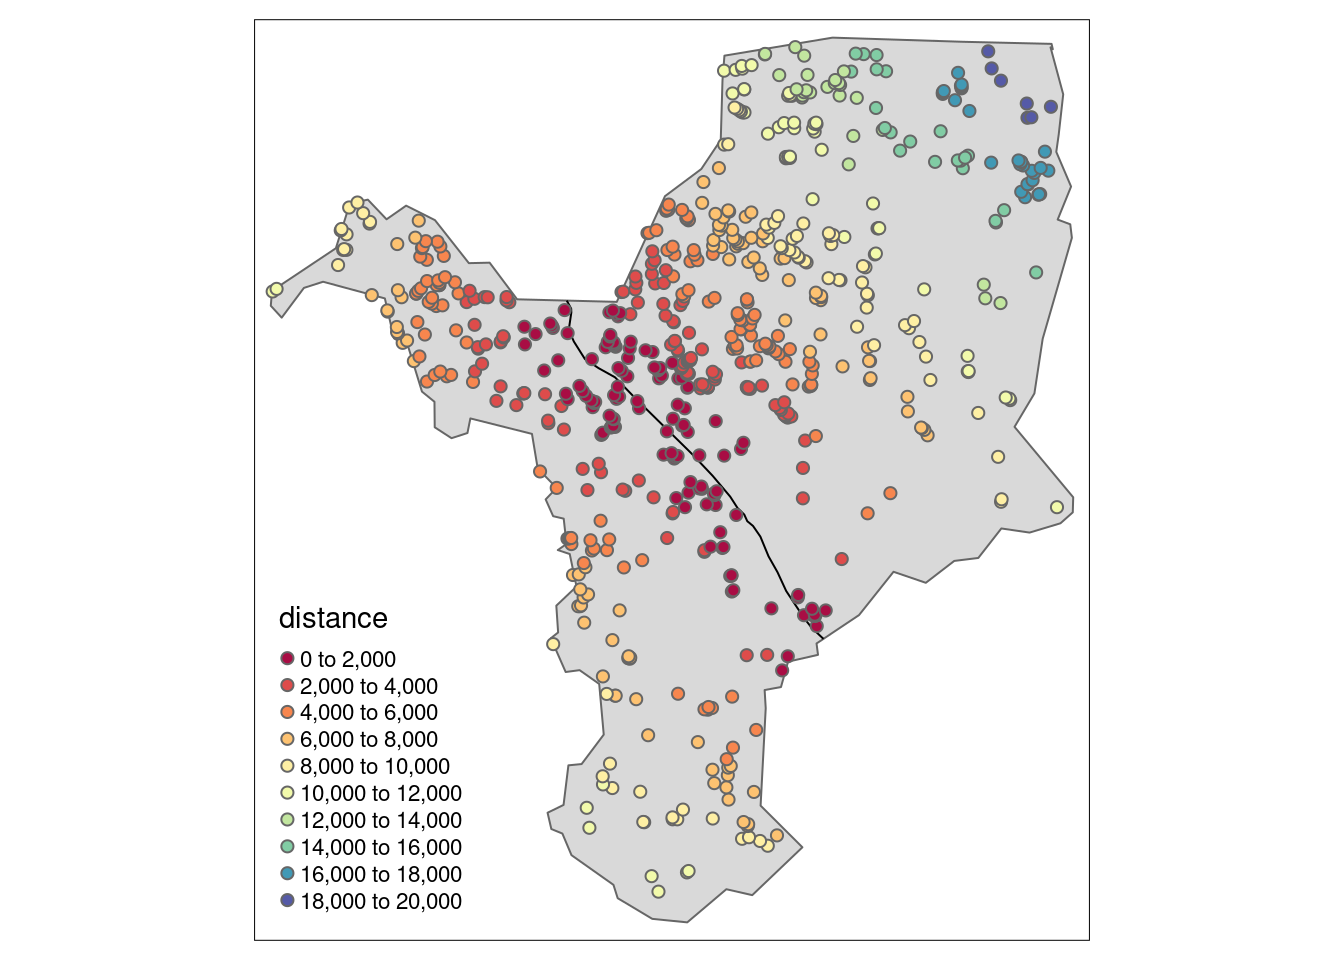
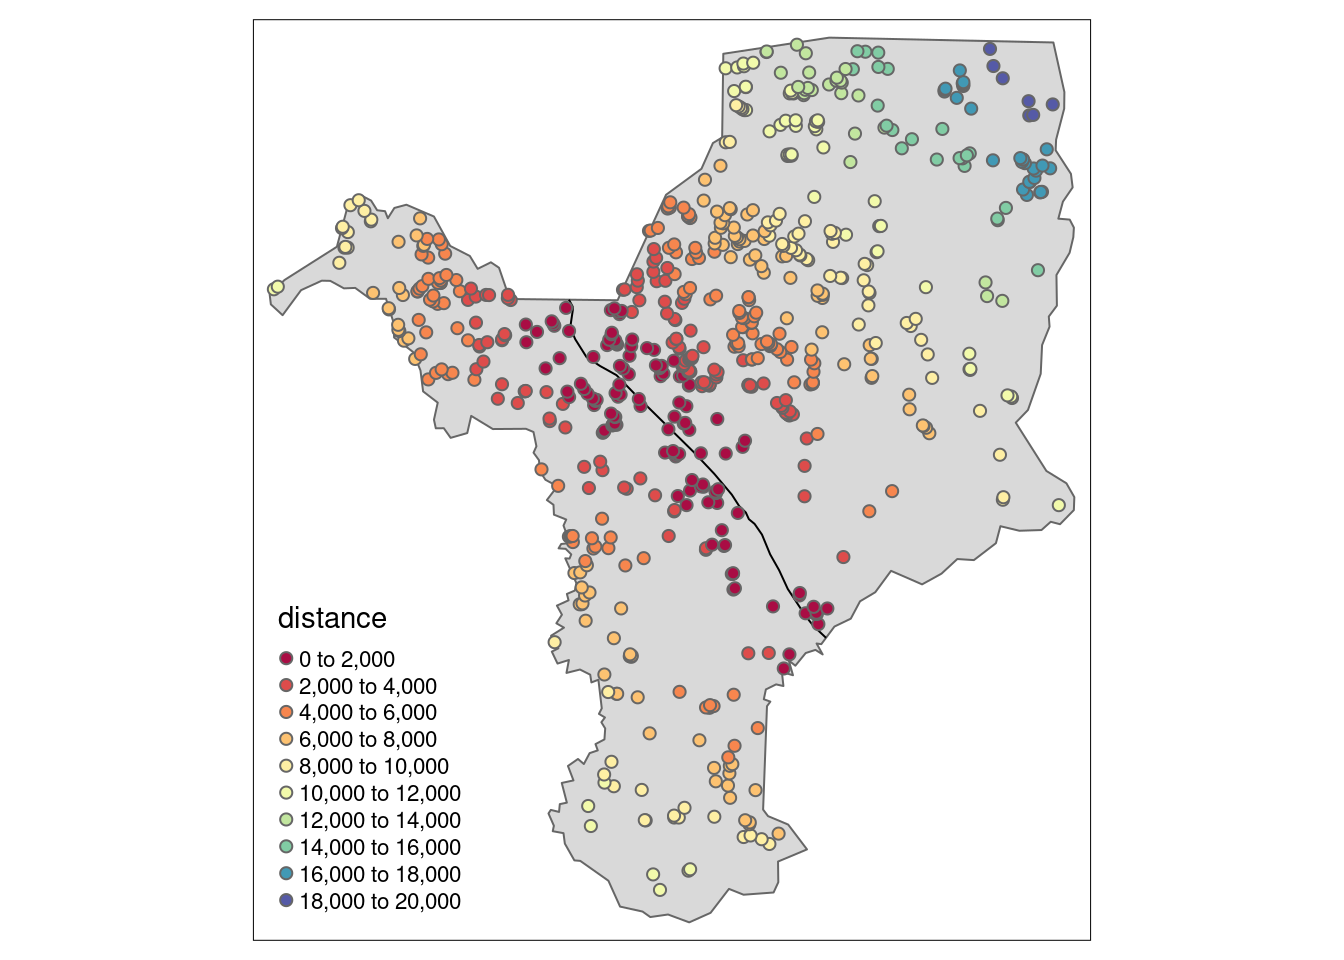
update pontos linhas

diff --git a/blog/geoanalise-distancia-ponto-linha/index.html b/blog/geoanalise-distancia-ponto-linha/index.html
@@ -46,7 +46,7 @@
   <meta itemprop="name" content="Distância de pontos a linhas">
 <meta itemprop="description" content="Cálculo da distância de pontos a linhas no R e no QGIS"><meta itemprop="datePublished" content="2022-07-10T00:00:00+00:00" />
 <meta itemprop="dateModified" content="2022-07-10T00:00:00+00:00" />
-<meta itemprop="wordCount" content="2005"><meta itemprop="image" content="https://mauriciovancine.github.io/blog/geoanalise-distancia-ponto-linha/featured.jpg">
+<meta itemprop="wordCount" content="1908"><meta itemprop="image" content="https://mauriciovancine.github.io/blog/geoanalise-distancia-ponto-linha/featured.jpg">
 <meta itemprop="keywords" content="Geoprocessamento,Geoespacial,R,Distância," />
   
   
@@ -195,7 +195,6 @@
 </span></span><span style="display:flex;"><span>
 </span></span><span style="display:flex;"><span><span style="color:#586e75"># apagar</span>
 </span></span><span style="display:flex;"><span><span style="color:#268bd2">unlink</span>(x <span style="color:#719e07">=</span> <span style="color:#268bd2">paste0</span>(path, <span style="color:#2aa198">&#34;rodovia.zip&#34;</span>))
-</span></span><span style="display:flex;"><span><span style="color:#268bd2">unlink</span>(x <span style="color:#719e07">=</span> <span style="color:#268bd2">paste0</span>(path, <span style="color:#2aa198">&#34;SNV_202206A&#34;</span>, <span style="color:#268bd2">c</span>(<span style="color:#2aa198">&#34;.cpg&#34;</span>, <span style="color:#2aa198">&#34;.sbn&#34;</span>, <span style="color:#2aa198">&#34;.sbx&#34;</span>)))
 </span></span></code></pre></div>
 
 
@@ -208,10 +207,8 @@
 </h2>
 <p>Vamos primeiramente importar dados do limite de Rio Claro/SP e reprojetar para o sistema geográfico com Datum SIRGAS2000.</p>
 <div class="highlight"><pre tabindex="0" style="color:#93a1a1;background-color:#002b36;-moz-tab-size:4;-o-tab-size:4;tab-size:4;"><code class="language-r" data-lang="r"><span style="display:flex;"><span><span style="color:#586e75"># download de dados para o limite de Rio Claro/SP</span>
-</span></span><span style="display:flex;"><span>rio_claro <span style="color:#719e07">&lt;-</span> geodata<span style="color:#719e07">::</span><span style="color:#268bd2">gadm</span>(country <span style="color:#719e07">=</span> <span style="color:#2aa198">&#34;BRA&#34;</span>, level <span style="color:#719e07">=</span> <span style="color:#2aa198">2</span>, path <span style="color:#719e07">=</span> path) <span style="color:#719e07">|&gt;</span> 
-</span></span><span style="display:flex;"><span>    sf<span style="color:#719e07">::</span><span style="color:#268bd2">st_as_sf</span>() <span style="color:#719e07">|&gt;</span> 
+</span></span><span style="display:flex;"><span>rio_claro <span style="color:#719e07">&lt;-</span> geobr<span style="color:#719e07">::</span><span style="color:#268bd2">read_municipality</span>(code_muni <span style="color:#719e07">=</span> <span style="color:#2aa198">3543907</span>, year <span style="color:#719e07">=</span> <span style="color:#2aa198">2020</span>, showProgress <span style="color:#719e07">=</span> <span style="color:#cb4b16">FALSE</span>) <span style="color:#719e07">|&gt;</span> 
 </span></span><span style="display:flex;"><span>    sf<span style="color:#719e07">::</span><span style="color:#268bd2">st_transform</span>(crs <span style="color:#719e07">=</span> <span style="color:#2aa198">4674</span>) <span style="color:#719e07">|&gt;</span> 
-</span></span><span style="display:flex;"><span>    dplyr<span style="color:#719e07">::</span><span style="color:#268bd2">filter</span>(NAME_1 <span style="color:#719e07">==</span> <span style="color:#2aa198">&#34;São Paulo&#34;</span>, NAME_2 <span style="color:#719e07">==</span> <span style="color:#2aa198">&#34;Rio Claro&#34;</span>) <span style="color:#719e07">|&gt;</span> 
 </span></span><span style="display:flex;"><span>    dplyr<span style="color:#719e07">::</span><span style="color:#268bd2">mutate</span>(id <span style="color:#719e07">=</span> <span style="color:#2aa198">1</span>) <span style="color:#719e07">|&gt;</span> 
 </span></span><span style="display:flex;"><span>    dplyr<span style="color:#719e07">::</span><span style="color:#268bd2">select</span>(id)
 </span></span><span style="display:flex;"><span>
@@ -284,12 +281,12 @@
 </span></span><span style="display:flex;"><span>    <span style="color:#268bd2">as.data.frame</span>()
 </span></span><span style="display:flex;"><span><span style="color:#268bd2">head</span>(dist)
 </span></span></code></pre></div><pre tabindex="0"><code>##    distance       lon       lat ID
-## 1 11676.523 -47.55583 -22.45255  1
-## 2 11335.350 -47.55583 -22.45255  1
-## 3 10462.207 -47.55583 -22.45255  1
-## 4 10383.628 -47.55583 -22.45255  1
-## 5  8278.059 -47.55583 -22.45255  1
-## 6  8185.671 -47.55583 -22.45255  1
+## 1 11668.100 -47.55548 -22.45285  1
+## 2 11329.337 -47.55548 -22.45285  1
+## 3 10451.366 -47.55548 -22.45285  1
+## 4 10372.662 -47.55548 -22.45285  1
+## 5  8254.727 -47.55548 -22.45285  1
+## 6  8164.196 -47.55548 -22.45285  1
 </code></pre><p>O resultado é uma tabela que contém quatro colunas:</p>
 <ul>
 <li><strong>distance</strong>: distância em metros do centroide do lago/lagoa até a rodovia</li>
@@ -365,27 +362,14 @@
 <p>Para garantir esse efeito, podemos usar uma linha que conecte os extremos da rodovia e rodar novamente a análise.</p>
 <div class="highlight"><pre tabindex="0" style="color:#93a1a1;background-color:#002b36;-moz-tab-size:4;-o-tab-size:4;tab-size:4;"><code class="language-r" data-lang="r"><span style="display:flex;"><span><span style="color:#586e75"># pontos extremos da rodovia</span>
 </span></span><span style="display:flex;"><span>rodovia_pontos <span style="color:#719e07">&lt;-</span> sf<span style="color:#719e07">::</span><span style="color:#268bd2">st_cast</span>(rodovia, <span style="color:#2aa198">&#34;POINT&#34;</span>)<span style="color:#268bd2">[c</span>(<span style="color:#2aa198">1</span>, <span style="color:#2aa198">29</span>), ] 
-</span></span><span style="display:flex;"><span>rodovia_pontos
-</span></span></code></pre></div><pre tabindex="0"><code>## Simple feature collection with 2 features and 1 field
-## Geometry type: POINT
-## Dimension:     XY
-## Bounding box:  xmin: -47.65266 ymin: -22.45255 xmax: -47.55583 ymax: -22.33456
-## Geodetic CRS:  SIRGAS 2000
-##      id                           x
-## 1     1 POINT (-47.55583 -22.45255)
-## 1.28  1 POINT (-47.65266 -22.33456)
-</code></pre><div class="highlight"><pre tabindex="0" style="color:#93a1a1;background-color:#002b36;-moz-tab-size:4;-o-tab-size:4;tab-size:4;"><code class="language-r" data-lang="r"><span style="display:flex;"><span><span style="color:#586e75"># linha que conecta os pontos extremos da rodovia</span>
+</span></span><span style="display:flex;"><span>
+</span></span><span style="display:flex;"><span><span style="color:#586e75"># linha que conecta os pontos extremos da rodovia</span>
 </span></span><span style="display:flex;"><span>rodovia_linha <span style="color:#719e07">&lt;-</span> rodovia_pontos <span style="color:#719e07">|&gt;</span> 
 </span></span><span style="display:flex;"><span>    dplyr<span style="color:#719e07">::</span><span style="color:#268bd2">group_by</span>(id) <span style="color:#719e07">|&gt;</span>
 </span></span><span style="display:flex;"><span>    sf<span style="color:#719e07">::</span><span style="color:#268bd2">st_union</span>() <span style="color:#719e07">|&gt;</span> 
 </span></span><span style="display:flex;"><span>    sf<span style="color:#719e07">::</span><span style="color:#268bd2">st_cast</span>(<span style="color:#2aa198">&#34;LINESTRING&#34;</span>)
-</span></span><span style="display:flex;"><span>rodovia_linha
-</span></span></code></pre></div><pre tabindex="0"><code>## Geometry set for 1 feature 
-## Geometry type: LINESTRING
-## Dimension:     XY
-## Bounding box:  xmin: -47.65266 ymin: -22.45255 xmax: -47.55583 ymax: -22.33456
-## Geodetic CRS:  SIRGAS 2000
-</code></pre><div class="highlight"><pre tabindex="0" style="color:#93a1a1;background-color:#002b36;-moz-tab-size:4;-o-tab-size:4;tab-size:4;"><code class="language-r" data-lang="r"><span style="display:flex;"><span><span style="color:#586e75"># mapa</span>
+</span></span><span style="display:flex;"><span>
+</span></span><span style="display:flex;"><span><span style="color:#586e75"># mapa</span>
 </span></span><span style="display:flex;"><span><span style="color:#268bd2">tm_shape</span>(rio_claro) <span style="color:#719e07">+</span>
 </span></span><span style="display:flex;"><span>    <span style="color:#268bd2">tm_polygons</span>() <span style="color:#719e07">+</span>
 </span></span><span style="display:flex;"><span>    <span style="color:#268bd2">tm_shape</span>(rodovia) <span style="color:#719e07">+</span>
@@ -395,18 +379,18 @@
 </span></span><span style="display:flex;"><span>    <span style="color:#268bd2">tm_shape</span>(rodovia_linha) <span style="color:#719e07">+</span>
 </span></span><span style="display:flex;"><span>    <span style="color:#268bd2">tm_lines</span>(col <span style="color:#719e07">=</span> <span style="color:#2aa198">&#34;blue&#34;</span>)
 </span></span></code></pre></div><img src="https://mauriciovancine.github.io/blog/geoanalise-distancia-ponto-linha/index_files/figure-html/unnamed-chunk-14-1.png" width="672" />
-Vamos recalcular as distâncias.
+<p>Vamos recalcular as distâncias.</p>
 <div class="highlight"><pre tabindex="0" style="color:#93a1a1;background-color:#002b36;-moz-tab-size:4;-o-tab-size:4;tab-size:4;"><code class="language-r" data-lang="r"><span style="display:flex;"><span><span style="color:#586e75"># distancias</span>
 </span></span><span style="display:flex;"><span>dist_per <span style="color:#719e07">&lt;-</span> geosphere<span style="color:#719e07">::</span><span style="color:#268bd2">dist2Line</span>(lagos_centroides_sp, sf<span style="color:#719e07">::</span><span style="color:#268bd2">as_Spatial</span>(rodovia_linha)) <span style="color:#719e07">|&gt;</span> 
 </span></span><span style="display:flex;"><span>    <span style="color:#268bd2">as.data.frame</span>()
 </span></span><span style="display:flex;"><span><span style="color:#268bd2">head</span>(dist_per)
 </span></span></code></pre></div><pre tabindex="0"><code>##    distance       lon       lat ID
-## 1 11676.523 -47.55583 -22.45255  1
-## 2 11335.350 -47.55583 -22.45255  1
-## 3 10462.207 -47.55583 -22.45255  1
-## 4 10383.628 -47.55583 -22.45255  1
-## 5  8278.059 -47.55583 -22.45255  1
-## 6  8185.671 -47.55583 -22.45255  1
+## 1 11668.100 -47.55548 -22.45285  1
+## 2 11329.337 -47.55548 -22.45285  1
+## 3 10451.366 -47.55548 -22.45285  1
+## 4 10372.662 -47.55548 -22.45285  1
+## 5  8254.727 -47.55548 -22.45285  1
+## 6  8164.196 -47.55548 -22.45285  1
 </code></pre><div class="highlight"><pre tabindex="0" style="color:#93a1a1;background-color:#002b36;-moz-tab-size:4;-o-tab-size:4;tab-size:4;"><code class="language-r" data-lang="r"><span style="display:flex;"><span><span style="color:#586e75"># vetores</span>
 </span></span><span style="display:flex;"><span>lagos_centroides_pontos_total_per <span style="color:#719e07">&lt;-</span> <span style="color:#cb4b16">NULL</span>
 </span></span><span style="display:flex;"><span>lagos_centroides_linhas_total_per <span style="color:#719e07">&lt;-</span> <span style="color:#cb4b16">NULL</span>
@@ -623,7 +607,7 @@ Vamos recalcular as distâncias.
   </dl>
   <dl class="f6 lh-copy">
     <dt class="fw7">Comprimento:</dt>
-    <dd class="fw5 ml0">10 minutos de leitura, 2005 palavras</dd>
+    <dd class="fw5 ml0">9 minutos de leitura, 1908 palavras</dd>
   </dl>
   
   <dl class="f6 lh-copy">
